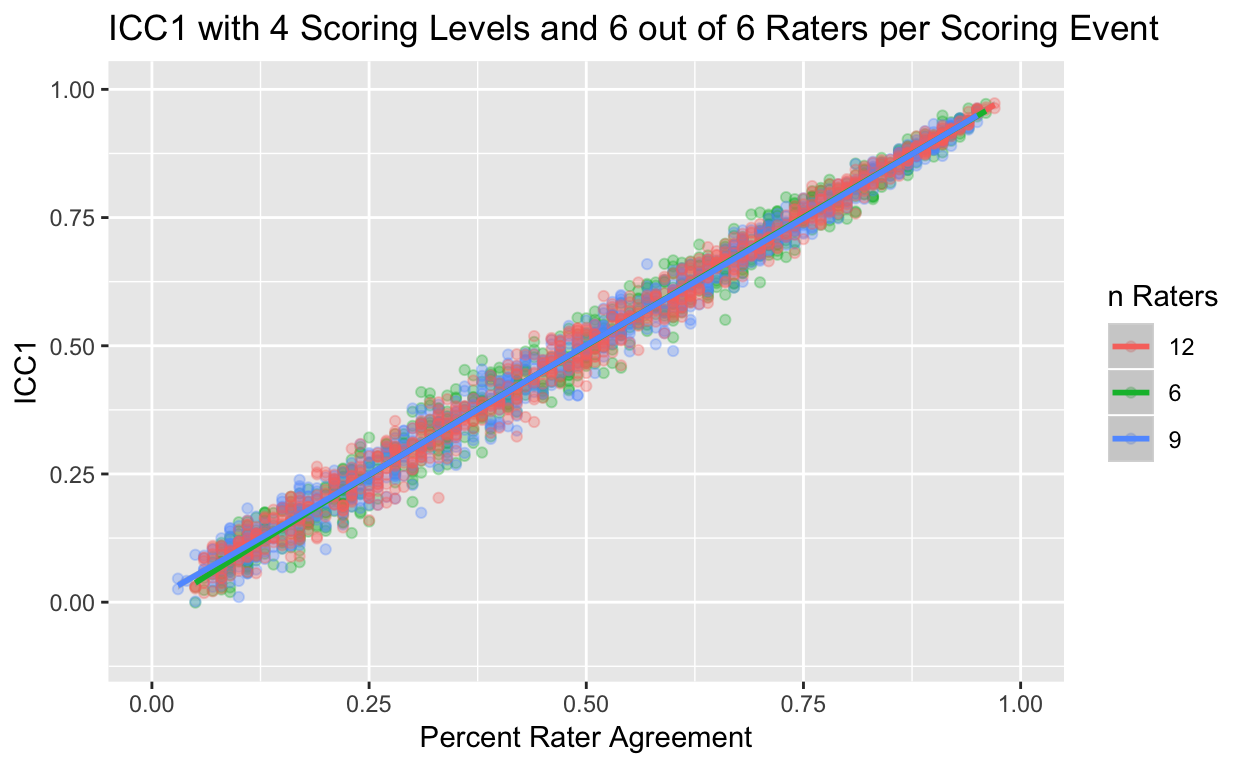
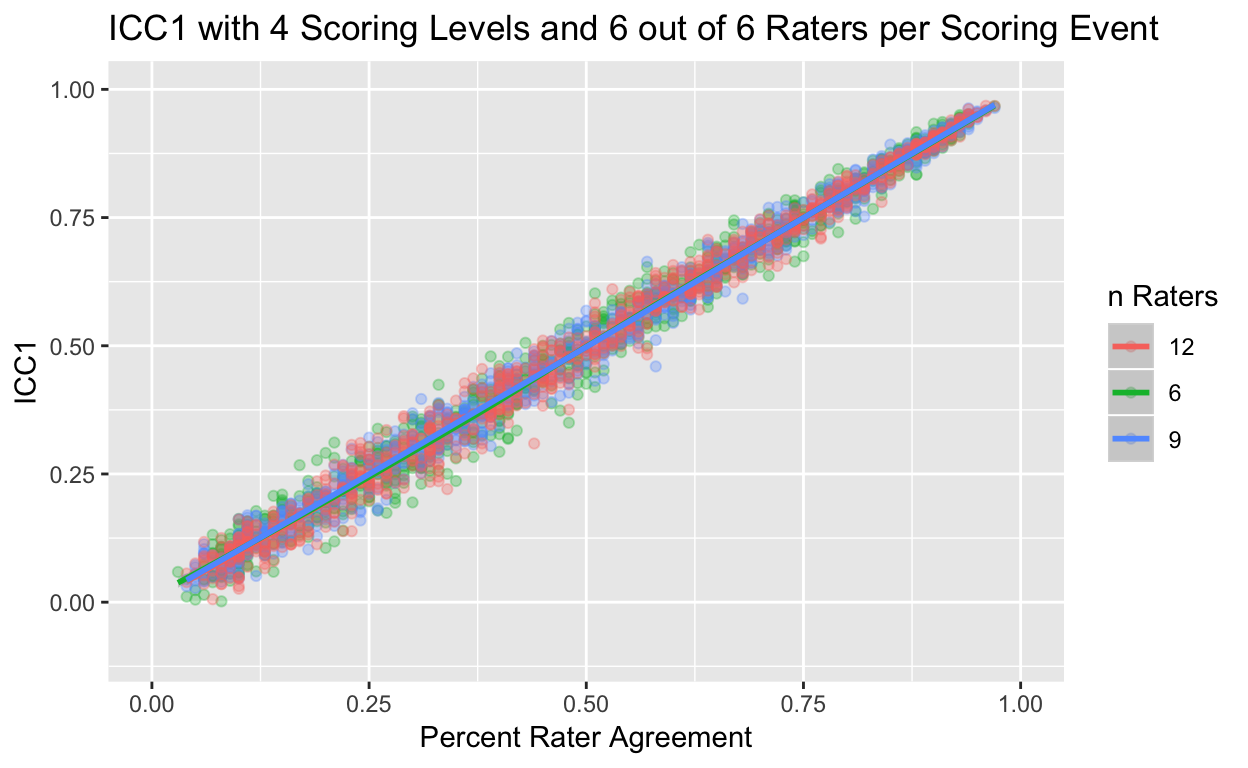
Minor updates.

Changed region(s): [[0.125, 0.125, 0.8125, 0.8125]]

diff --git a/docs/articles/IRRsim.html b/docs/articles/IRRsim.html
@@ -72,7 +72,7 @@
             <address class="author_afil">
       Excelsior College<br><h4 class="author">Guher Gorgun</h4>
             <address class="author_afil">
-      University at Albany<br><h4 class="date">2018-11-20</h4>
+      University at Albany<br><h4 class="date">2018-11-29</h4>
       
       <small class="dont-index">Source: <a href="http://github.com/jbryer/IRRsim/blob/master/vignettes/IRRsim.Rmd"><code>vignettes/IRRsim.Rmd</code></a></small>
       <div class="hidden name"><code>IRRsim.Rmd</code></div>
@@ -155,16 +155,16 @@
 </tr></thead>
 <tbody>
 <tr class="odd">
+<td>Altman</td>
+<td align="left">Altman (1990)</td>
+<td align="left"></td>
+<td align="left">&lt; 0.2 Poor<br>0.2 - 0.4 Fair<br>0.4 - 0.6 Moderate<br>0.6 - 0.8 Good<br>&gt; 0.8 Very good</td>
+</tr>
+<tr class="even">
 <td>Cicchetti</td>
 <td align="left">Cicchetti &amp; Sparrow (1981); Cicchetti (2001)</td>
 <td align="left">ICC, Cohen Kappa</td>
 <td align="left">&lt; 0.4 Poor<br>0.4 - 0.6 Fair<br>0.6 - 0.75 Good<br>&gt; 0.75 Excellent</td>
-</tr>
-<tr class="even">
-<td>Zeger</td>
-<td align="left">Zeger et al. (2010)</td>
-<td align="left">Cohen Kappa</td>
-<td align="left">&lt; 0.2 Slight<br>0.2 - 0.4 Fair<br>0.4 - 0.6 Moderate<br>0.6 - 0.8 Substantial<br>&gt; 0.8 Almost perfect</td>
 </tr>
 <tr class="odd">
 <td>Fleiss</td>
@@ -173,34 +173,28 @@
 <td align="left">&lt; 0.4 Poor<br>0.4 - 0.75 Fair<br>&gt; 0.75 Excellent</td>
 </tr>
 <tr class="even">
-<td>Altman</td>
-<td align="left">Altman (1990)</td>
-<td align="left"></td>
-<td align="left">&lt; 0.2 Poor<br>0.2 - 0.4 Fair<br>0.4 - 0.6 Moderate<br>0.6 - 0.8 Good<br>&gt; 0.8 Very good</td>
+<td>Koo and Li</td>
+<td align="left">Koo &amp; Li (2016)</td>
+<td align="left">ICC</td>
+<td align="left">&lt; 0.5 Poor<br>0.5 - 0.75 Moderate<br>0.75 - 0.9 Good<br>&gt; 0.9 Excellent</td>
+</tr>
+<tr class="odd">
+<td>Landis and Koch</td>
+<td align="left">Landis &amp; Koch (1997); Zeger et al. (2010)</td>
+<td align="left">Cohen Kappa</td>
+<td align="left">&lt; 0.2 Slight<br>0.2 - 0.4 Fair<br>0.4 - 0.6 Moderate<br>0.6 - 0.8 Substantial<br>&gt; 0.8 Almost perfect</td>
+</tr>
+<tr class="even">
+<td>Portney and Watkins</td>
+<td align="left">Portney &amp; Watkins (2009)</td>
+<td align="left">ICC</td>
+<td align="left">&lt; 0.75 Poor to moderate<br>0.75 - NA Reasonable for clinical measurement<br>0 - 0.75 Poor to moderate<br>&gt; 0.75 Reasonable for clinical measurement</td>
 </tr>
 <tr class="odd">
 <td>Shrout</td>
 <td align="left">Shrout (1998)</td>
 <td align="left"></td>
 <td align="left">&lt; 0.1 Virtually none<br>0.1 - 0.4 Slight<br>0.4 - 0.6 Fair<br>0.6 - 0.8 Moderate<br>&gt; 0.8 Substantial</td>
-</tr>
-<tr class="even">
-<td>Landis and Koch</td>
-<td align="left">Landis &amp; Koch (1997)</td>
-<td align="left">Cohen Kappa</td>
-<td align="left">&lt; 0.2 Poor<br>0.2 - 0.4 Fair<br>0.4 - 0.6 Moderate<br>0.6 - 0.8 Substantial<br>&gt; 0.8 Almost perfect</td>
-</tr>
-<tr class="odd">
-<td>Portney and Watkins</td>
-<td align="left">Portney &amp; Watkins (2009)</td>
-<td align="left">ICC</td>
-<td align="left">&lt; 0.75 Poor to moderate<br>0.75 - NA Reasonable for clinical measurement<br>0 - 0.75 Poor to moderate<br>&gt; 0.75 Reasonable for clinical measurement</td>
-</tr>
-<tr class="even">
-<td>Koo and Li</td>
-<td align="left">Koo &amp; Li (2016)</td>
-<td align="left">ICC</td>
-<td align="left">&lt; 0.5 Poor<br>0.5 - 0.75 Moderate<br>0.75 - 0.9 Good<br>&gt; 0.9 Excellent</td>
 </tr>
 </tbody>
 </table>
@@ -298,19 +292,19 @@ test2
 <span class="co">#&gt; [1] 2700   15</span>
 <span class="kw">head</span>(test.4levels.df)
 <span class="co">#&gt;   nLevels nEvents k k_per_event simAgreement agreement skewness kurtosis</span>
-<span class="co">#&gt; 1       4     100 6           6          0.1      0.13    0.027     -1.3</span>
-<span class="co">#&gt; 2       4     100 6           6          0.1      0.10   -0.061     -1.3</span>
-<span class="co">#&gt; 3       4     100 6           6          0.1      0.08   -0.031     -1.3</span>
-<span class="co">#&gt; 4       4     100 6           6          0.1      0.16    0.149     -1.3</span>
-<span class="co">#&gt; 5       4     100 6           6          0.1      0.13   -0.051     -1.4</span>
-<span class="co">#&gt; 6       4     100 6           6          0.1      0.09   -0.048     -1.3</span>
+<span class="co">#&gt; 1       4     100 6           6          0.1      0.09   -0.035     -1.4</span>
+<span class="co">#&gt; 2       4     100 6           6          0.1      0.13    0.027     -1.4</span>
+<span class="co">#&gt; 3       4     100 6           6          0.1      0.11   -0.049     -1.4</span>
+<span class="co">#&gt; 4       4     100 6           6          0.1      0.05    0.097     -1.4</span>
+<span class="co">#&gt; 5       4     100 6           6          0.1      0.06    0.062     -1.3</span>
+<span class="co">#&gt; 6       4     100 6           6          0.1      0.10   -0.132     -1.3</span>
 <span class="co">#&gt;   MaxResponseDiff  ICC1  ICC2  ICC3 ICC1k ICC2k ICC3k</span>
-<span class="co">#&gt; 1          0.0033 0.154 0.154 0.154  0.52  0.52  0.52</span>
-<span class="co">#&gt; 2          0.0233 0.105 0.105 0.105  0.41  0.41  0.41</span>
-<span class="co">#&gt; 3          0.0350 0.116 0.116 0.115  0.44  0.44  0.44</span>
-<span class="co">#&gt; 4          0.0133 0.158 0.158 0.158  0.53  0.53  0.53</span>
-<span class="co">#&gt; 5          0.0250 0.143 0.144 0.146  0.50  0.50  0.51</span>
-<span class="co">#&gt; 6          0.0433 0.083 0.083 0.083  0.35  0.35  0.35</span></code></pre></div>
+<span class="co">#&gt; 1           0.038 0.108 0.107 0.106 0.420 0.417 0.415</span>
+<span class="co">#&gt; 2           0.032 0.114 0.113 0.112 0.435 0.433 0.431</span>
+<span class="co">#&gt; 3           0.027 0.150 0.150 0.150 0.515 0.514 0.514</span>
+<span class="co">#&gt; 4           0.000 0.024 0.024 0.024 0.126 0.128 0.129</span>
+<span class="co">#&gt; 5           0.020 0.015 0.014 0.014 0.081 0.076 0.076</span>
+<span class="co">#&gt; 6           0.067 0.058 0.059 0.059 0.270 0.272 0.272</span></code></pre></div>
 <p>The following three figures show ICC1 against percent rater agreement.</p>
 <div class="sourceCode"><pre class="sourceCode r"><code class="sourceCode r"><span class="kw">plot</span>(tests.4levels, <span class="dt">stat =</span> <span class="st">'ICC1'</span>)</code></pre></div>
 <p><img src="IRRsim_files/figure-html/ploticc1-1.png" width="624"></p>
@@ -327,19 +321,19 @@ test2
 <span class="co">#&gt; </span>
 <span class="co">#&gt; Residuals:</span>
 <span class="co">#&gt;      Min       1Q   Median       3Q      Max </span>
-<span class="co">#&gt; -0.11112 -0.01969  0.00136  0.01933  0.10116 </span>
+<span class="co">#&gt; -0.12629 -0.02074 -0.00025  0.02233  0.10363 </span>
 <span class="co">#&gt; </span>
 <span class="co">#&gt; Coefficients:</span>
 <span class="co">#&gt;                Estimate Std. Error t value Pr(&gt;|t|)    </span>
-<span class="co">#&gt; (Intercept)    -0.01228    0.00386   -3.18   0.0015 ** </span>
-<span class="co">#&gt; I(agreement^2) -0.03952    0.01718   -2.30   0.0216 *  </span>
-<span class="co">#&gt; agreement       1.04735    0.01770   59.16   &lt;2e-16 ***</span>
+<span class="co">#&gt; (Intercept)    0.000883   0.004157    0.21     0.83    </span>
+<span class="co">#&gt; I(agreement^2) 0.021894   0.018480    1.18     0.24    </span>
+<span class="co">#&gt; agreement      0.979926   0.019009   51.55   &lt;2e-16 ***</span>
 <span class="co">#&gt; ---</span>
 <span class="co">#&gt; Signif. codes:  0 '***' 0.001 '**' 0.01 '*' 0.05 '.' 0.1 ' ' 1</span>
 <span class="co">#&gt; </span>
-<span class="co">#&gt; Residual standard error: 0.031 on 897 degrees of freedom</span>
-<span class="co">#&gt; Multiple R-squared:  0.987,  Adjusted R-squared:  0.987 </span>
-<span class="co">#&gt; F-statistic: 3.32e+04 on 2 and 897 DF,  p-value: &lt;2e-16</span>
+<span class="co">#&gt; Residual standard error: 0.033 on 897 degrees of freedom</span>
+<span class="co">#&gt; Multiple R-squared:  0.984,  Adjusted R-squared:  0.984 </span>
+<span class="co">#&gt; F-statistic: 2.77e+04 on 2 and 897 DF,  p-value: &lt;2e-16</span>
 <span class="kw">summary</span>(tests.4levels.sum<span class="op">$</span>model[[<span class="dv">2</span>]]) <span class="co"># k = 9 raters</span>
 <span class="co">#&gt; </span>
 <span class="co">#&gt; Call:</span>
@@ -348,19 +342,19 @@ test2
 <span class="co">#&gt; </span>
 <span class="co">#&gt; Residuals:</span>
 <span class="co">#&gt;      Min       1Q   Median       3Q      Max </span>
-<span class="co">#&gt; -0.13546 -0.01556  0.00128  0.01800  0.08954 </span>
+<span class="co">#&gt; -0.11869 -0.01638  0.00095  0.01687  0.09557 </span>
 <span class="co">#&gt; </span>
 <span class="co">#&gt; Coefficients:</span>
-<span class="co">#&gt;                 Estimate Std. Error t value Pr(&gt;|t|)    </span>
-<span class="co">#&gt; (Intercept)    -0.000671   0.003492   -0.19     0.85    </span>
-<span class="co">#&gt; I(agreement^2) -0.004000   0.015771   -0.25     0.80    </span>
-<span class="co">#&gt; agreement       1.002916   0.016118   62.23   &lt;2e-16 ***</span>
+<span class="co">#&gt;                Estimate Std. Error t value Pr(&gt;|t|)    </span>
+<span class="co">#&gt; (Intercept)     0.00280    0.00336    0.83     0.41    </span>
+<span class="co">#&gt; I(agreement^2)  0.01558    0.01490    1.05     0.30    </span>
+<span class="co">#&gt; agreement       0.98333    0.01534   64.11   &lt;2e-16 ***</span>
 <span class="co">#&gt; ---</span>
 <span class="co">#&gt; Signif. codes:  0 '***' 0.001 '**' 0.01 '*' 0.05 '.' 0.1 ' ' 1</span>
 <span class="co">#&gt; </span>
-<span class="co">#&gt; Residual standard error: 0.029 on 897 degrees of freedom</span>
-<span class="co">#&gt; Multiple R-squared:  0.988,  Adjusted R-squared:  0.988 </span>
-<span class="co">#&gt; F-statistic: 3.75e+04 on 2 and 897 DF,  p-value: &lt;2e-16</span>
+<span class="co">#&gt; Residual standard error: 0.027 on 897 degrees of freedom</span>
+<span class="co">#&gt; Multiple R-squared:  0.989,  Adjusted R-squared:  0.989 </span>
+<span class="co">#&gt; F-statistic: 4.1e+04 on 2 and 897 DF,  p-value: &lt;2e-16</span>
 <span class="kw">summary</span>(tests.4levels.sum<span class="op">$</span>model[[<span class="dv">3</span>]]) <span class="co"># k = 12 raters</span>
 <span class="co">#&gt; </span>
 <span class="co">#&gt; Call:</span>
@@ -369,19 +363,19 @@ test2
 <span class="co">#&gt; </span>
 <span class="co">#&gt; Residuals:</span>
 <span class="co">#&gt;      Min       1Q   Median       3Q      Max </span>
-<span class="co">#&gt; -0.12469 -0.01636  0.00019  0.01615  0.08017 </span>
+<span class="co">#&gt; -0.12831 -0.01676  0.00048  0.01737  0.08210 </span>
 <span class="co">#&gt; </span>
 <span class="co">#&gt; Coefficients:</span>
 <span class="co">#&gt;                 Estimate Std. Error t value Pr(&gt;|t|)    </span>
-<span class="co">#&gt; (Intercept)    -0.003143   0.003356   -0.94     0.35    </span>
-<span class="co">#&gt; I(agreement^2)  0.000466   0.014855    0.03     0.97    </span>
-<span class="co">#&gt; agreement       1.003838   0.015316   65.54   &lt;2e-16 ***</span>
+<span class="co">#&gt; (Intercept)    -0.005104   0.003522   -1.45     0.15    </span>
+<span class="co">#&gt; I(agreement^2) -0.000161   0.015734   -0.01     0.99    </span>
+<span class="co">#&gt; agreement       1.006433   0.016152   62.31   &lt;2e-16 ***</span>
 <span class="co">#&gt; ---</span>
 <span class="co">#&gt; Signif. codes:  0 '***' 0.001 '**' 0.01 '*' 0.05 '.' 0.1 ' ' 1</span>
 <span class="co">#&gt; </span>
-<span class="co">#&gt; Residual standard error: 0.027 on 897 degrees of freedom</span>
-<span class="co">#&gt; Multiple R-squared:  0.989,  Adjusted R-squared:  0.989 </span>
-<span class="co">#&gt; F-statistic: 4.19e+04 on 2 and 897 DF,  p-value: &lt;2e-16</span></code></pre></div>
+<span class="co">#&gt; Residual standard error: 0.029 on 897 degrees of freedom</span>
+<span class="co">#&gt; Multiple R-squared:  0.988,  Adjusted R-squared:  0.988 </span>
+<span class="co">#&gt; F-statistic: 3.76e+04 on 2 and 897 DF,  p-value: &lt;2e-16</span></code></pre></div>
 </div>
 <div id="discussion" class="section level1">
 <h1 class="hasAnchor">

diff --git a/docs/reference/IRRguidelines.html b/docs/reference/IRRguidelines.html
@@ -123,9 +123,9 @@
 
     <h2 class="hasAnchor" id="examples"><a class="anchor" href="#examples"></a>Examples</h2>
     <pre class="examples"><div class='input'><span class='fu'>data</span>(<span class='no'>IRRguidelines</span>)
-<span class='fu'>names</span>(<span class='no'>IRRguidelines</span>) <span class='co'># Names of the guidelines</span></div><div class='output co'>#&gt; [1] "Cicchetti"           "Zeger"               "Fleiss"             
-#&gt; [4] "Altman"              "Shrout"              "Landis and Koch"    
-#&gt; [7] "Portney and Watkins" "Koo and Li"         </div><div class='input'><span class='no'>IRRguidelines</span><span class='kw'>[[</span><span class='st'>'Cicchetti'</span>]] <span class='co'># Cicchetti's (1994) guidelines</span></div><div class='output co'>#&gt; $breaks
+<span class='fu'>names</span>(<span class='no'>IRRguidelines</span>) <span class='co'># Names of the guidelines</span></div><div class='output co'>#&gt; [1] "Altman"              "Cicchetti"           "Fleiss"             
+#&gt; [4] "Koo and Li"          "Landis and Koch"     "Portney and Watkins"
+#&gt; [7] "Shrout"             </div><div class='input'><span class='no'>IRRguidelines</span><span class='kw'>[[</span><span class='st'>'Cicchetti'</span>]] <span class='co'># Cicchetti's (1994) guidelines</span></div><div class='output co'>#&gt; $breaks
 #&gt;      Poor      Fair      Good Excellent 
 #&gt;      0.00      0.40      0.60      0.75 
 #&gt; 

diff --git a/docs/index.html b/docs/index.html
@@ -77,14 +77,14 @@
 <h2 class="hasAnchor">
 <a href="#install" class="anchor"></a>Install</h2>
 <p>The development version of <code>IRRsim</code> can be downloaded from Github using the <code>devtools</code> package:</p>
-<pre><code><a href="http://www.rdocumentation.org/packages/devtools/topics/reexports">devtools::install_github('jbryer/IRRsim')</a></code></pre>
+<div class="sourceCode"><pre class="sourceCode r"><code class="sourceCode r">devtools<span class="op">::</span><span class="kw"><a href="http://www.rdocumentation.org/packages/devtools/topics/reexports">install_github</a></span>(<span class="st">'jbryer/IRRsim'</span>)</code></pre></div>
 </div>
 <div id="shiny-app" class="section level2">
 <h2 class="hasAnchor">
 <a href="#shiny-app" class="anchor"></a>Shiny App</h2>
 <p>Many of features of this package can be explored using the included shiny applications. The <code>IRRsim_shiny()</code> function will run the application.</p>
-<pre><code>IRRsim::IRRsim_shiny()</code></pre>
-<p><img src="IRRsimScreen.png" alt="IRRsim Shiny App"></p>
+<div class="sourceCode"><pre class="sourceCode r"><code class="sourceCode r">IRRsim<span class="op">::</span><span class="kw">IRRsim_shiny</span>()</code></pre></div>
+<p><img src="inst/slides/IRRsimShinyApp.png" alt="IRRsim Shiny App"></p>
 </div>
 </div>
   </div>
